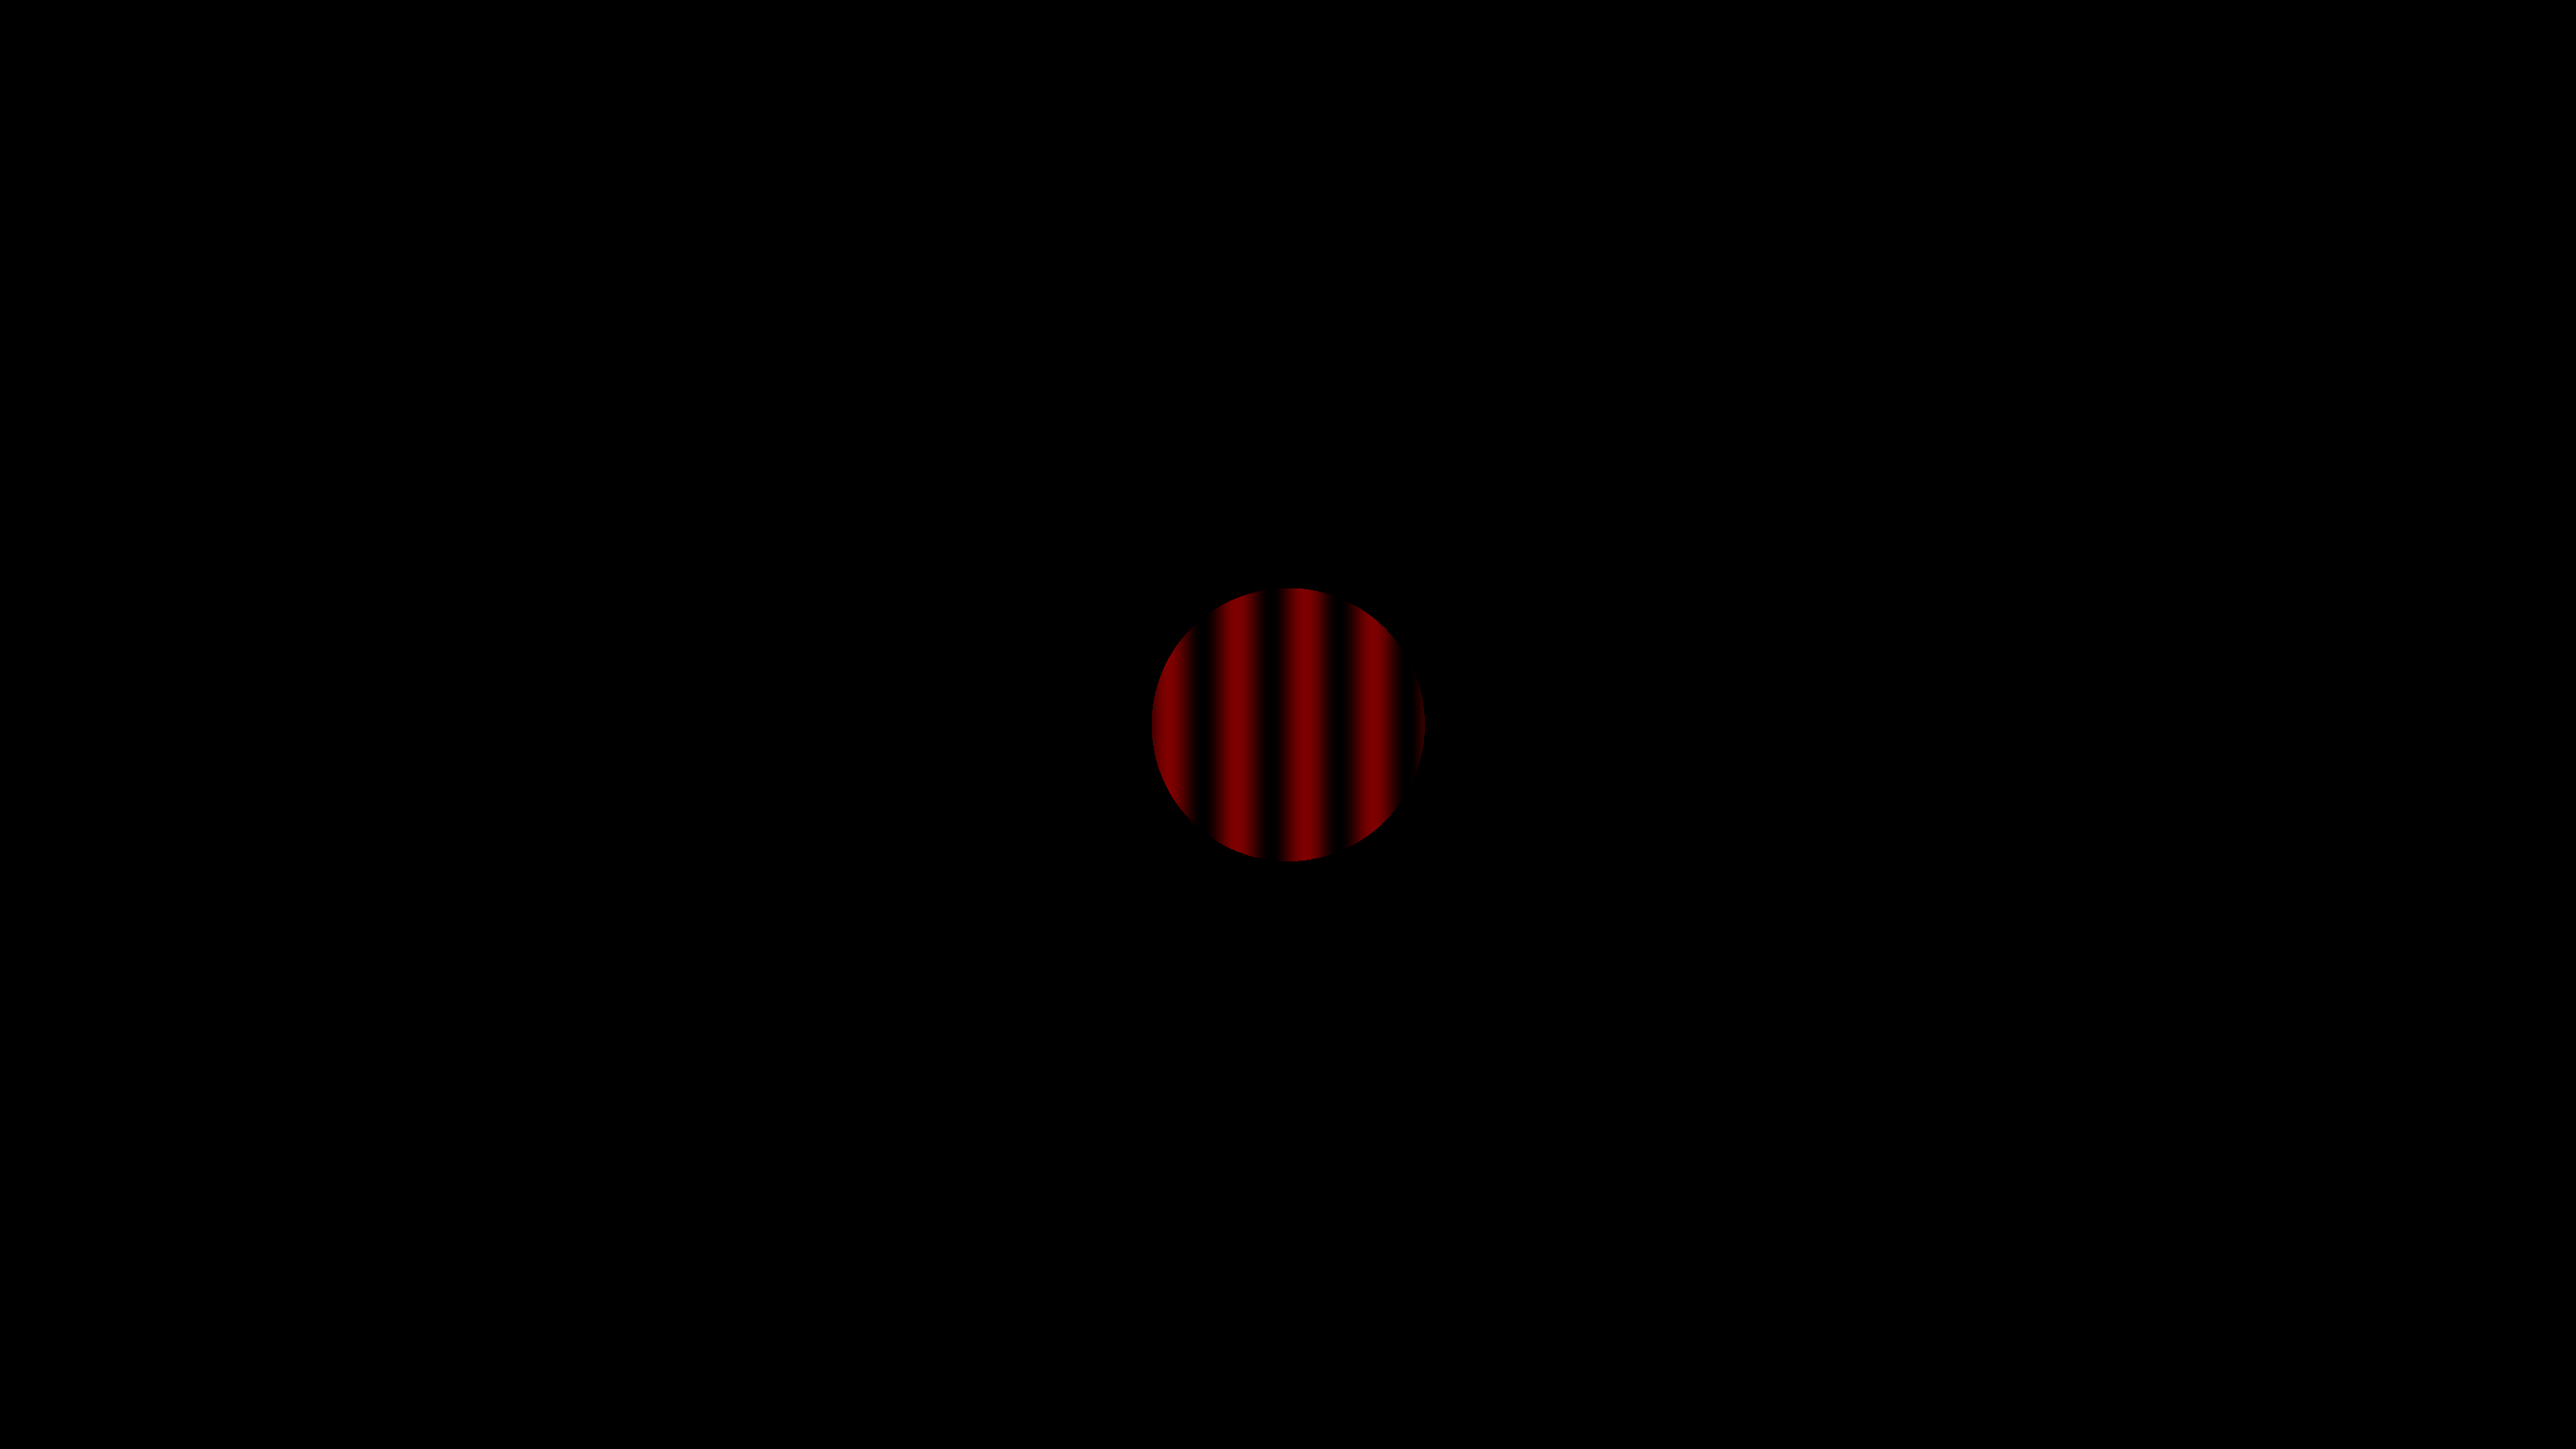
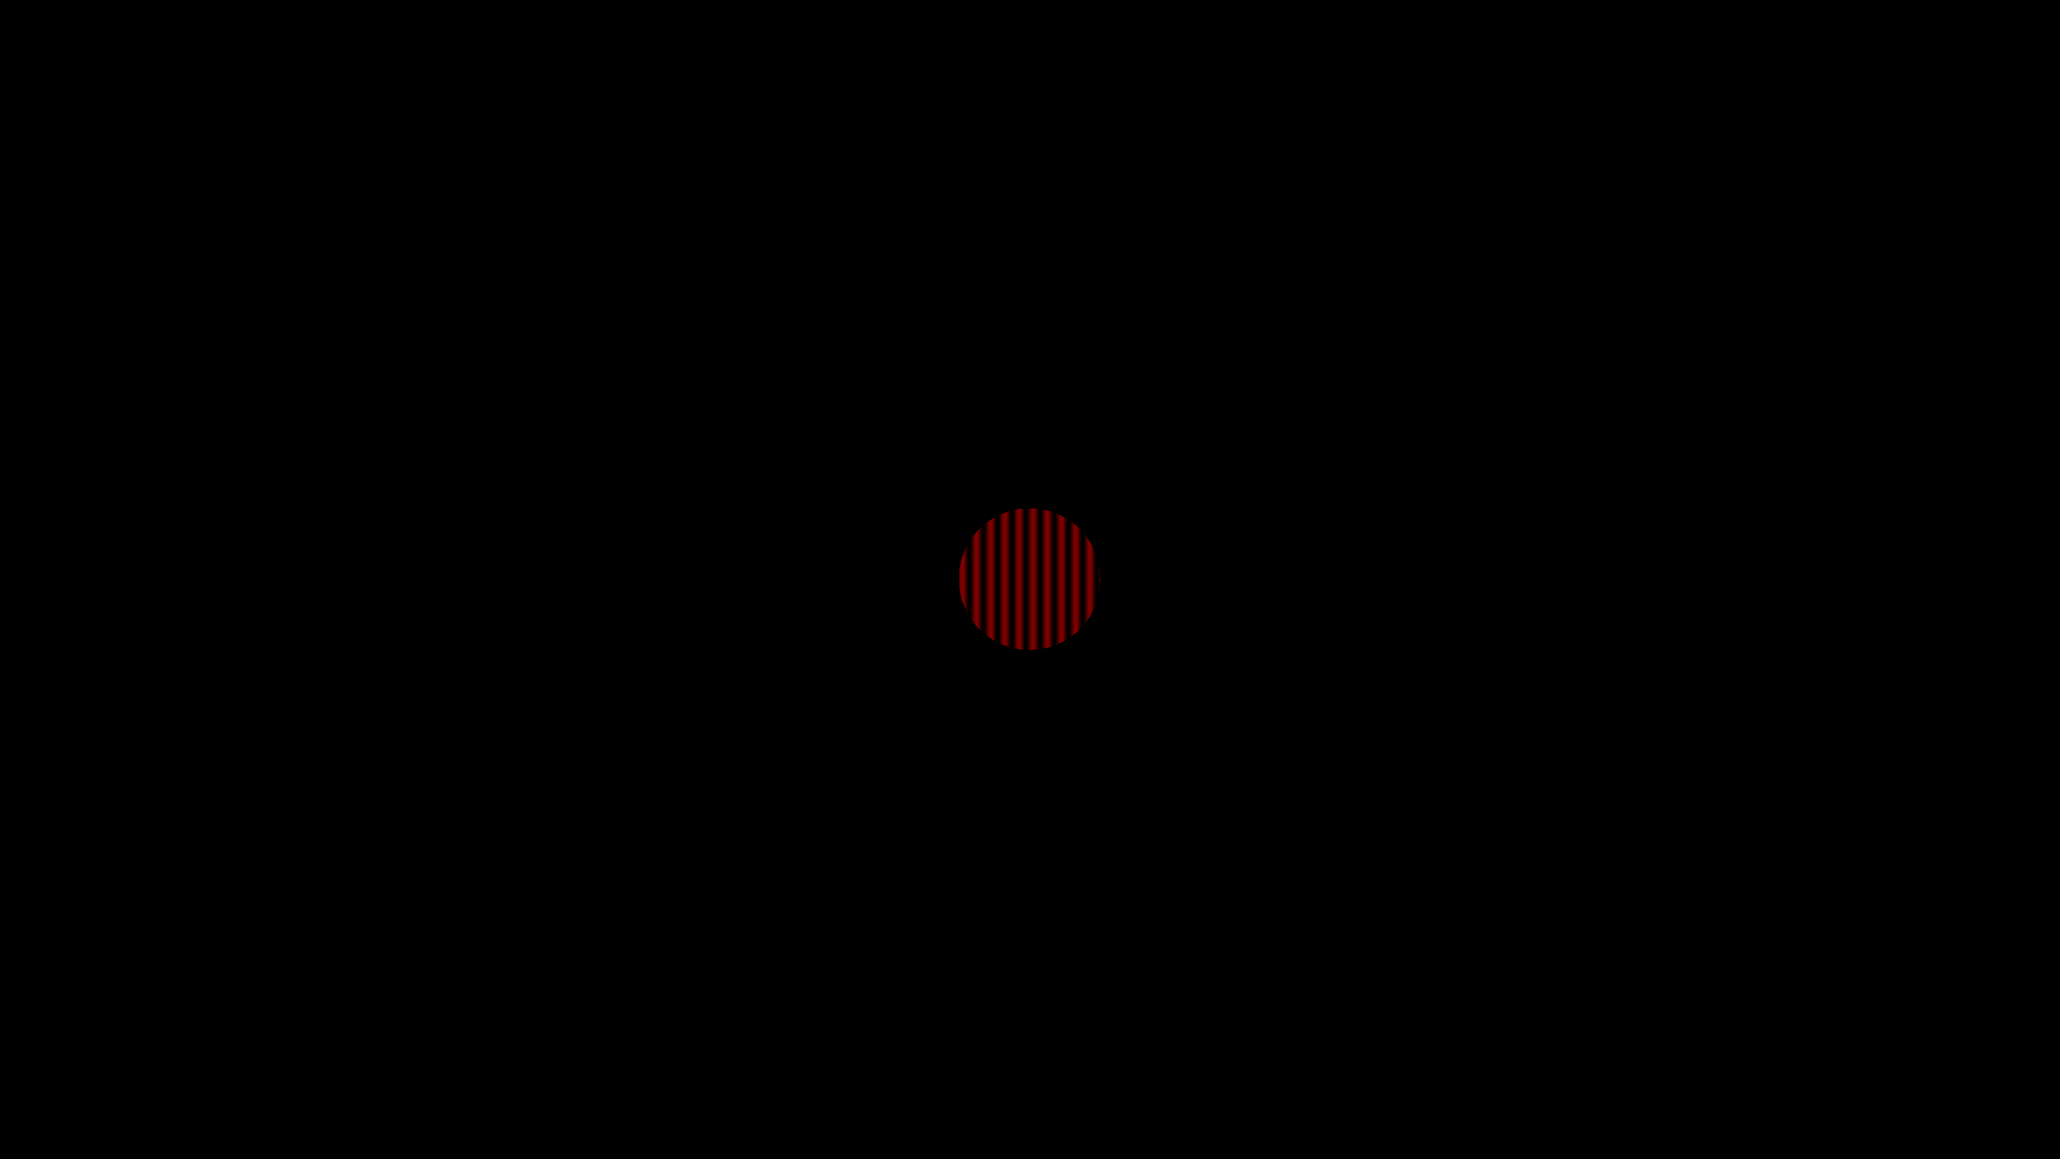
Fri. update

Changed region(s): [[0.4375, 0.4062, 0.5625, 0.5938]]

diff --git a/binoriv_main.m b/binoriv_main.m
@@ -20,12 +20,25 @@ HideCursor;
 subj_type = 0; % 0 is human, 1 is monkey
 report = 0; %0 is no report (record only eye-tracking), 1 is report (i.e. record also key pressing)
 
-fix_size = 0.25; % diameter of a fixation spot (deg)
+fix_size = 0.1; % diameter of a fixation spot (deg)
 %colour_comb = 0; % 0 is (Red Blue), 1 is (Blue Red)
-num_superblock = 5; % the number of super-blocks
+num_superblock = 1; % the number of super-blocks
 
 screen_inch = 15.6; % size of the screen (inch)
 dist_scr = 42; % distance from screen (cm)
+
+if subj_type == 0 % human
+    trial_len = 8; % 2000 ms
+    num_trial = 8; % block
+    num_triad = 1; % 12 blocks
+    rest = 8; % break time (sec) after physical/binocular blocks % 8000 ms
+    brk = 2; % 120 break time (sec) after one super-block
+elseif subj_type == 1 % monkey
+    trial_len = 0.8; % 800 ms
+    num_trial = 8;
+    num_triad = 12;
+end
+
 
 %% Ask subject's name to output file
 prompt = 'What is the subject''s first name?: ';
@@ -49,7 +62,7 @@ diameter = tand(V)*D; % cm
 %xysize = rect(4);
 screen_diagonal = sqrt(rect(3)^2 + rect(4)^2);
 screen_inch = screen_inch;
-xysize = diameter/(2.54/(screen_diagonal/screen_inch));
+xysize = diameter/(2.54/(screen_diagonal/screen_inch)); % what is 2.54?
 radius = xysize/2; % px
 
 [centre(1), centre(2)] = RectCenter(rect);
@@ -62,18 +75,7 @@ fix_below = [centre(1:1)-radius centre(2:2)-fix_d-radius centre(1:1)+radius cent
 fix_up = [centre(1:1)-radius centre(2:2)+fix_d-radius centre(1:1)+radius centre(2:2)+fix_d+radius];
 potential_loc = [fix_left; fix_right; fix_up; fix_below];
 
-%% define other parameters
-if subj_type == 0 % human
-    trial_len = 2.0; % 2000 ms
-    num_trial = 8;
-    num_triad = 12;
-    rest = 8; % break time (sec) after physical/binocular blocks % 8000 ms
-    brk = 120; % break time (sec) after one super-block 
-elseif subj_type == 1 % monkey
-    trial_len = 0.8; % 800 ms
-    num_trial = 8;
-    num_triad = 12;
-end
+
 % shuffle the order of the phys stimuli
 phys_stim = [];
 for i=1:num_trial/2;phys_stim=horzcat(phys_stim,0);end
@@ -95,18 +97,18 @@ imagetex_r = Screen('MakeTexture', w, imdata_r);
 
 %% Main
 for i = 1:num_superblock
-            
+    
     for j = 1:num_triad
         phys_bino = randi([0 1],1,1); % if 0 phys->bino, if 1 bino->phys
         phys_stim = phys_stim(randperm(num_trial)); % shuffle the order of the phys stimuli
-        if phys_bino == 0  
+        if phys_bino == 0
             binoriv_phys_switch(w,red,blue,i,j,trial_len,num_trial,imagetex_l,imagetex_r,potential_loc,report,phys_stim,subj_dist);
             binoriv_percep_switch(w,red,blue,i,j,trial_len,num_trial,imagetex_l,imagetex_r,potential_loc,report,subj_dist);
         elseif phys_bino == 1
             binoriv_percep_switch(w,red,blue,i,j,trial_len,num_trial,imagetex_l,imagetex_r,potential_loc,report,subj_dist);
             binoriv_phys_switch(w,red,blue,i,j,trial_len,num_trial,imagetex_l,imagetex_r,potential_loc,report,phys_stim,subj_dist);
         end
-
+        
         fprintf('Rest now... \n')
         [vbl, start] = Screen('Flip', w);
         while (vbl < (rest + start))
@@ -123,3 +125,6 @@ for i = 1:num_superblock
     end
     
 end
+
+ShowCursor;
+Screen('Close',w);

diff --git a/binoriv_stimulus.m b/binoriv_stimulus.m
@@ -38,7 +38,7 @@ black=BlackIndex(screenNumber);
 
 
 %% Define grating 
-cycles = 2; % spatial frequency (cycles per stimulus)
+cycles = 5; % spatial frequency (cycles per stimulus)
 [w, rect] = Screen('OpenWindow', screenNumber, [0 0 0]);
 HideCursor;
 % make stimulus image
